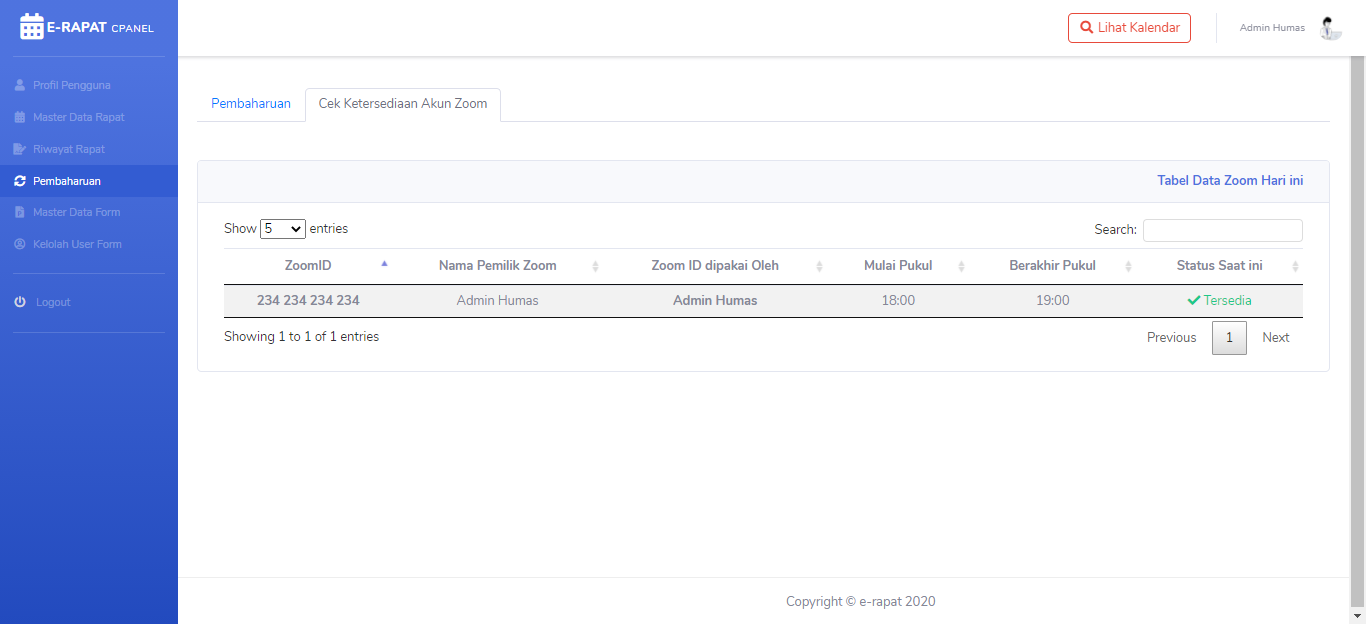
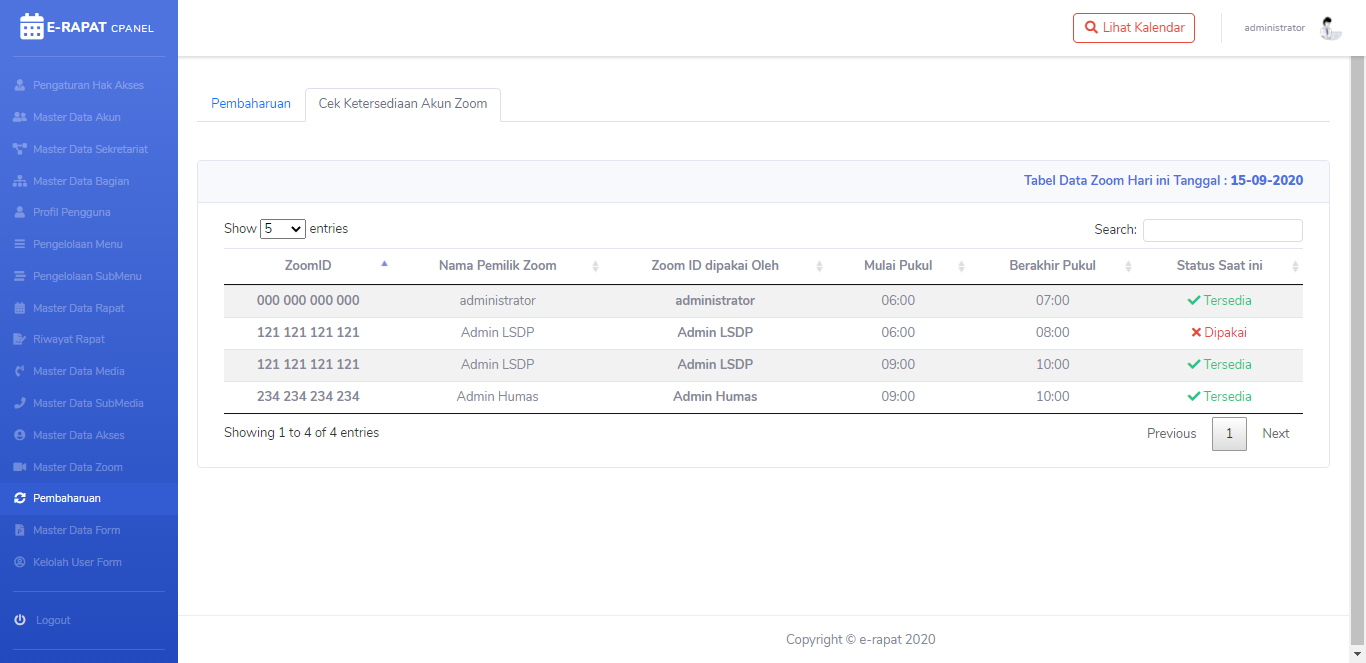
Legacy_Update - Bug Fixed error Zoom (UPDATED)

diff --git a/assets/css/custom.css b/assets/css/custom.css
@@ -79,7 +79,7 @@
 }
 
 .modal-md {
-	max-width: 60%;
+	max-width: 80%;
 	z-index: 10;
 }
 

diff --git a/application/helpers/meeting_helper.php b/application/helpers/meeting_helper.php
@@ -79,17 +79,21 @@ function get_available_zoomid()
 {
     $ci = get_instance();
 
-    $zoomid = $ci->db->get_where('view_zoom_users', ['is_active' => 1, 'user_id !=' => $ci->session->userdata('id')])->result_array();
-    $d = $ci->db->get_where('view_zoom_users', ['is_active' => 1, 'user_id' => $ci->session->userdata('id')])->row_array();
+    $zoomid = $ci->db->get_where('view_zoom_users', ['user_id !=' => $ci->session->userdata('id')])->result_array();
+    $d = $ci->db->get_where('view_zoom_users', ['user_id' => $ci->session->userdata('id')])->row_array();
 
-    // $d['status'] ??= 'default value';
+    $currenttime = date("H:i:s");
+    $starttime = date($d['start_time']);
+    $endtime = date($d['end_time']);
 
-    if ($d['status'] == '1') { ?>
+    $endtime = $endtime <= $starttime ? $endtime + 2400 : $endtime;
+
+    if (($currenttime >= $starttime) && ($currenttime <= $endtime)) { ?>
         <li class="pz">
             <label class="radio-inline">
-                <input type="radio" id="pro-chx-residential" name="zoomid" class="pro-chx" value="<?= $d['zoom_id']; ?>" disabled>
+                <input type="radio" id="pro-chx-residential" name="zoomid" class="pro-chx" value="<?= $d['id']; ?>" disabled>
                 <div class="notavail text-danger">
-                    <?= $d['zoom_id']; ?>
+                    <i class="fas fa-times"></i> <?= $d['idzoom']; ?>
                     - (Zoom ID Default)
                 </div>
             </label>
@@ -98,9 +102,9 @@ function get_available_zoomid()
     } else { ?>
         <li class="pz">
             <label class="radio-inline">
-                <input type="radio" id="pro-chx-residential" name="zoomid" class="pro-chx" value="<?= $d['zoom_id']; ?>" checked>
+                <input type="radio" id="pro-chx-residential" name="zoomid" class="pro-chx" value="<?= $d['id']; ?>" checked>
                 <div class="avail text-primary">
-                    <?= $d['zoom_id']; ?>
+                    <i class="fas fa-check"></i> <?= $d['idzoom']; ?>
                     - (Zoom ID Default)
                 </div>
             </label>
@@ -113,21 +117,21 @@ function get_available_zoomid()
         ?>
             <li class="pz">
                 <label class="radio-inline">
-                    <input type="radio" id="pro-chx-residential" name="zoomid" class="pro-chx" value="<?= $zm['zoom_id']; ?>" disabled>
-                    <div class="notavail text-secondary">
-                        <?= $zm['zoom_id']; ?>
+                    <input type="radio" id="pro-chx-residential" name="zoomid" class="pro-chx" value="<?= $zm['id']; ?>" disabled>
+                    <div class="notavail text-danger">
+                        <i class="fas fa-times"></i> <?= $zm['idzoom']; ?>
                         - (<?= $zm['pemilik_zoom']; ?>)
                     </div>
                 </label>
             </li>
         <?php
-        } else if ($zm['status'] == '1') {
+        } else if (($currenttime >= $starttime) && ($currenttime <= $endtime)) {
         ?>
             <li class="pz">
                 <label class="radio-inline">
-                    <input type="radio" id="pro-chx-residential" name="zoomid" class="pro-chx" value="<?= $zm['zoom_id']; ?>" disabled>
-                    <div class="notavail text-muted">
-                        <?= $zm['zoom_id']; ?>
+                    <input type="radio" id="pro-chx-residential" name="zoomid" class="pro-chx" value="<?= $zm['id']; ?>" disabled>
+                    <div class="notavail text-danger">
+                        <i class="fas fa-times"></i> <?= $zm['idzoom']; ?>
                         - (<?= $zm['pemilik_zoom']; ?>)
                     </div>
                 </label>
@@ -137,9 +141,9 @@ function get_available_zoomid()
         ?>
             <li class="pz">
                 <label class="radio-inline">
-                    <input type="radio" id="pro-chx-residential" name="zoomid" class="pro-chx" value="<?= $zm['zoom_id']; ?>">
+                    <input type="radio" id="pro-chx-residential" name="zoomid" class="pro-chx" value="<?= $zm['id']; ?>">
                     <div class="clab text-success">
-                        <?= $zm['zoom_id']; ?>
+                        <i class="fas fa-check"></i> <?= $zm['idzoom']; ?>
                         - (<?= $zm['pemilik_zoom']; ?>)
                     </div>
                 </label>

diff --git a/application/views/zoom/index.php b/application/views/zoom/index.php
@@ -59,7 +59,7 @@
                                     <?php foreach ($zoom as $zm) : ?>
                                         <tr>
                                             <td class="text-center"><?= $i++; ?></td>
-                                            <td class="text-center"><span class="text-primary"><strong><?= $zm['zoom_id']; ?></strong></span></td>
+                                            <td class="text-center"><span class="text-primary"><strong><?= $zm['idzoom']; ?></strong></span></td>
                                             <td><?= $zm['pemilik_zoom']; ?></td>
                                             <td class="text-center">
                                                 <?php
@@ -70,12 +70,6 @@
                                                 <?php } ?>
                                             </td>
                                             <td class="text-center">
-                                                <?php
-                                                if ($zm['status'] == 1) { ?>
-                                                    <span class="badge badge-success" data-toggle="modal" data-target="#resetZoom<?= $zm['id']; ?>" style="cursor:pointer"><i class="fas fa-fw fa-eraser"></i> Sedang Online</span>
-                                                <?php } else { ?>
-                                                    <span class="badge badge-danger" data-toggle="modal" data-target="#resetZoom<?= $zm['id']; ?>" style="cursor:pointer"><i class="fas fa-fw fa-eraser"></i> Sedang Offline</span>
-                                                <?php } ?>
                                                 <?php if ($this->session->userdata('role_id') == '1') { ?>
                                                     <span class="badge badge-dark" data-toggle="modal" data-target="#editZoom<?= $zm['id']; ?>" style="cursor:pointer"><i class="fas fa-fw fa-marker"></i> Ubah</span>
                                                     <span class="badge badge-danger" data-toggle="modal" data-target="#deleteZoom<?= $zm['id']; ?>" style="cursor:pointer"><i class="fas fa-fw fa-trash"></i> Hapus</span>
@@ -116,7 +110,7 @@
                 <input type="hidden" name="<?php echo $this->security->get_csrf_token_name(); ?>" value="<?php echo $this->security->get_csrf_hash(); ?>" style="display: none">
                 <div class="modal-body">
                     <div class="form-group">
-                        <input type="text" class="form-control" id="zoom_id" name="zoom_id" placeholder="Masukan Zoom ID...">
+                        <input type="text" class="form-control" id="zoom_id" name="idzoom" placeholder="Masukan Zoom ID...">
                     </div>
                     <div class="form-group">
                         <select name="user_id" id="user_id" class="form-control">
@@ -165,7 +159,7 @@ foreach ($zoom as $zm) :
                     <input type="hidden" name="<?php echo $this->security->get_csrf_token_name(); ?>" value="<?php echo $this->security->get_csrf_hash(); ?>" style="display: none">
                     <div class="modal-body">
                         <div class="form-group">
-                            <input type="text" class="form-control" id="zoom_id" name="zoom_id" value="<?= $zm['zoom_id']; ?>">
+                            <input type="text" class="form-control" id="zoom_id" name="zoom_id" value="<?= $zm['idzoom']; ?>">
                         </div>
                         <div class="form-group">
                             <select class="custom-select mr-sm-2" select name="user_id" id="user_id">

diff --git a/application/controllers/Zoom.php b/application/controllers/Zoom.php
@@ -34,14 +34,13 @@ class Zoom extends CI_Controller
         } else {
 
             $data = [
-                'zoom_id'   => htmlspecialchars($this->input->post('zoom_id', true)),
+                'idzoom'   => htmlspecialchars($this->input->post('idzoom', true)),
                 'user_id'   => intval($this->input->post('user_id', true)),
                 'is_active' => intval($this->input->post('is_active', true)),
             ];
 
             $this->Zoom_model->insert_zoom($data);
-            // $this->Zoom_model->update_zoom($data, $this->input->post('id', true));
-            $this->db->set('zoomid', $data['zoom_id']);
+            $this->db->set('zoomid', $data['idzoom']);
             $this->db->where('id', $data['user_id']);
             $this->db->update('meeting_users');
             $this->session->set_flashdata('messages', '<div class="alert alert-success alert-dismissible fade show" role="alert"><strong>Selamat!</strong> Zoom ID baru telah ditambahkan!</div>');
@@ -53,14 +52,14 @@ class Zoom extends CI_Controller
     {
         if ($this->input->post('id')) {
             $data = array(
-                'zoom_id'   => htmlspecialchars($this->input->post('zoom_id', true)),
+                'idzoom'   => htmlspecialchars($this->input->post('idzoom', true)),
                 'user_id'   => intval($this->input->post('user_id', true)),
                 'is_active' => intval($this->input->post('is_active', true)),
             );
 
             $this->Zoom_model->update_zoom($data, $this->input->post('id', true));
 
-            $this->db->set('zoomid', $data['zoom_id']);
+            $this->db->set('zoomid', $data['idzoom']);
             $this->db->where('id', $data['user_id']);
             $this->db->update('meeting_users');
             $this->session->set_flashdata('messages', '<div class="alert alert-success alert-dismissible fade show" role="alert"><strong>Selamat!</strong> Zoom ID baru telah diubah!</div>');
@@ -74,19 +73,6 @@ class Zoom extends CI_Controller
 
         $this->Zoom_model->delete_zoom($id);
         $this->session->set_flashdata('messages', '<div class="alert alert-success alert-dismissible fade show" role="alert"><strong>Selamat!</strong> Zoom ID baru telah dihapus!</div>');
-        redirect('zoom');
-    }
-
-
-    public function resetzoom()
-    {
-        $id = $this->input->post('id');
-        $status = "0";
-        $data = array('status' => $status);
-
-        $this->Zoom_model->reset_zoom($id, $data);
-        $this->session->set_flashdata('messages', '<div class="alert alert-success alert-dismissible fade show" role="alert">
-        <strong>Selamat!</strong> Status Zoom ID telah dirubah & Tersedia!</strong>.</div>');
         redirect('zoom');
     }
 }

diff --git a/application/views/feed/pembaharuan.php b/application/views/feed/pembaharuan.php
@@ -13,10 +13,10 @@
                 <!-- Nav pills -->
                 <ul class="nav nav-tabs">
                     <li class="nav-item">
-                        <a class="nav-link active" href="<?= base_url('feed/pembaharuan'); ?>">Pembaharuan</a>
+                        <a class="nav-link active" href="<?= base_url('feed/pembaharuan'); ?>"><i class="fas fa-sync-alt"></i> Pembaharuan</a>
                     </li>
                     <li class="nav-item">
-                        <a class="nav-link" href="<?= base_url('feed/cekzoom'); ?>">Cek Ketersediaan Akun Zoom</a>
+                        <a class="nav-link" href="<?= base_url('feed/cekzoom'); ?>"><i class="fas fa-video"></i> Cek Ketersediaan Zoom</a>
                     </li>
                     <!-- <li class="nav-item">
                         <a class="nav-link" href="<?= base_url('feed/penjelajahan'); ?>">Penjelajahan</a>
@@ -148,7 +148,7 @@
                                     </td>
                                     <td class="text-center">
                                         <?php
-                                        if (($currenttime >= $starttime) && ($currenttime <= $endtime) && ($a['status'] == 1)) { ?>
+                                        if (($currenttime >= $starttime) && ($currenttime <= $endtime)) { ?>
                                             <button type="button" class="btn btn-danger" disabled><i class="fas fa-microphone-alt-slash"></i> Dipakai</button>
                                         <?php
                                         } else if ($a['user_id'] == 20 || $a['user_id'] == 21) { ?>

diff --git a/application/models/Meeting_model.php b/application/models/Meeting_model.php
@@ -100,13 +100,14 @@ class Meeting_model extends CI_Model
             'request_status' => $request_status
         );
 
+        var_dump($data);
+        die;
         if ($data['sub_type_id'] == 1) {
-            $this->db->set('status', $zoom_status);
             $this->db->set('pemakai_id', $this->session->userdata('id'));
             $this->db->set('date_activated', $data['end_date']);
             $this->db->set('start_time', $data['start_time']);
             $this->db->set('end_time', $data['end_time']);
-            $this->db->where('zoom_id', $data['zoomid']);
+            $this->db->where('id', $data['zoomid']);
             $this->db->update('meeting_zoom');
         }
 
@@ -144,6 +145,9 @@ class Meeting_model extends CI_Model
     public function delete_meeting($id)
     {
         return $this->db->where('id', $id)->delete($this->meeting);
+        $this->db->query("SET @num := 0;");
+        $this->db->query("UPDATE $this->meeting SET id = @num := (@num+1);");
+        $this->db->query("ALTER TABLE $this->meeting AUTO_INCREMENT = 1;");
     }
 
     public function update_meeting_status($id, $data)

diff --git a/application/views/meeting/index.php b/application/views/meeting/index.php
@@ -101,6 +101,7 @@
                                                 <?= status_meeting($a); ?>
                                                 <span class="badge badge-success" data-toggle="modal" data-target="#meetingDetail<?= $a['id']; ?>" style="cursor:pointer;margin:2px;"><i class="fas fa-fw fa-search"></i> Detail Rapat</span>
                                                 <span class="badge badge-primary" data-toggle="modal" data-target="#meetingEdit<?= $a['id']; ?>" style="cursor:pointer;margin:2px;"><i class="fas fa-fw fa-marker"></i> Ubah Rapat</span>
+                                                <span class="badge badge-danger" data-toggle="modal" data-target="#meetingDel<?= $a['id']; ?>" style="cursor:pointer;margin:2px;"><i class="fas fa-fw fa-trash"></i> Delete</span>
                                             </td>
                                         </tr>
                                     <?php endforeach; ?>

diff --git a/application/views/feed/cekavailzoom.php b/application/views/feed/cekavailzoom.php
@@ -13,10 +13,10 @@
                 <!-- Nav pills -->
                 <ul class="nav nav-tabs">
                     <li class="nav-item">
-                        <a class="nav-link " href="<?= base_url('feed/pembaharuan'); ?>">Pembaharuan</a>
+                        <a class="nav-link " href="<?= base_url('feed/pembaharuan'); ?>"><i class="fas fa-sync-alt"></i> Pembaharuan</a>
                     </li>
                     <li class="nav-item">
-                        <a class="nav-link active" href="<?= base_url('feed/cekzoom'); ?>">Cek Ketersediaan Akun Zoom</a>
+                        <a class="nav-link active" href="<?= base_url('feed/cekzoom'); ?>"><i class="fas fa-video"></i> Cek Ketersediaan Zoom</a>
                         <!-- </li>
                     <li class="nav-item">
                         <a class="nav-link" href="<?= base_url('feed/penjelajahan'); ?>">Penjelajahan</a>

diff --git a/application/models/Zoom_model.php b/application/models/Zoom_model.php
@@ -34,7 +34,6 @@ class Zoom_model extends CI_Model
         $curr_date = $date->format('Y-m-d ');
 
         $this->db->select('*');
-        // $this->db->select('user_id, user_telephone, user_email, CONCAT(user_firstname, '.', user_surname) AS name', FALSE);
         $this->db->from($this->view_zoom_meeting);
         $this->db->where('DATE(date_activated)', $curr_date);
         return $this->db->get()->result_array();
